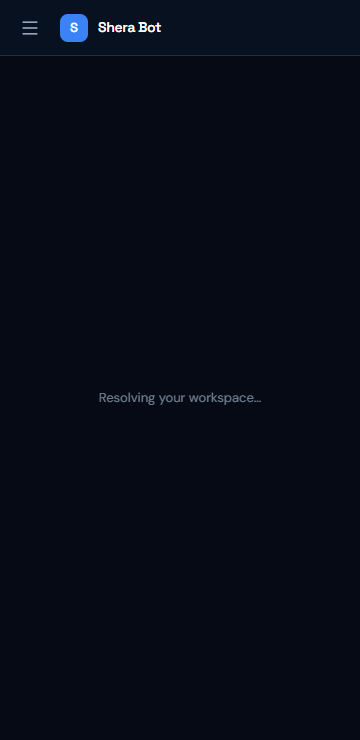
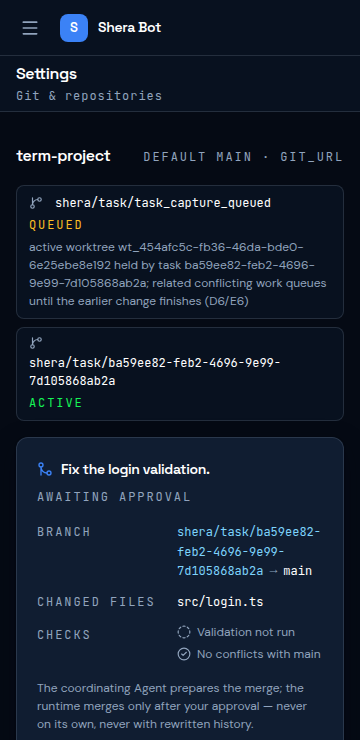
fix(s19): UI-gate evidence re-derived — the committed captures never showed the surface
The review round's taste re-derivation found the chunk-2 UI-gate evidence
defective: the harness's next dev hydration never completed inside the
capture window on ANY device, so every committed PNG showed the
pre-hydration container gate ('Resolving your workspace…'), never the
merge-review surface it attests to. Root-caused two defects and fixed the
committed harness:

1. The control-plane stub answered runtime_handle 'rt_capture', which
   fails the contracts OpaqueRuntimeHandle shape (rt_ + 32 hex) — the
   browser-side RuntimeStatus parse typed-failed even where hydration
   landed. The stub now answers a contract-shaped handle.
2. Dev-mode hydration is not capture-reliable for this app: the harness
   now defaults to the PRODUCTION web server (next start over next
   build); S19_WEB_MODE=dev opts back into next dev for debugging.
3. The chromium executablePath is platform-aware (Windows chrome-win64,
   Linux ~/.cache chrome-linux64, S19_CHROMIUM override), and the
   missing run-cards 768 capture was added.

Re-produced evidence (9 captures, from the committed harness on the Linux
gate box): git-review at 1440/768/360 + reduced-motion + keyboard trail
(the trail REACHES the approve control), run cards at 1440/768/360 — each
showing the real rendered surface: the five PRD §10 fields verbatim, the
D6/E6 queue with its visible reason, and the git-aware run-card join.
E32 and TRACEABILITY updated with the corrected evidence story.

diff --git a/docs/decisions/engineering-record-e32-s19-git-worktrees-2026-10-29.md b/docs/decisions/engineering-record-e32-s19-git-worktrees-2026-10-29.md
@@ -39,7 +39,7 @@
 
 ## Ownership and verification
 
-Implementation owner: delegated coding agents (chunk 1 report on record; chunk 2 verified by the orchestrator after its builder's quota death, narrative re-derived at review); review/release owner: maintainer; **P9 owner diff-read before merge** (sensitive-slice instruction). Verification coverage: `projects-repository` (9: STRICT enums, E12 scoping, one ACTIVE credential per kind, one ACTIVE worktree per project, queue rows with reasons, minimal-PRD merge fields + by-approval resolution, the committed v14+v15 chain pin), `git.service` (import/clone atomicity incl. credential-bearing URL refusal; branch+worktree isolation with the default branch untouched; queue-not-concurrent; restricted-project 403; merge prepare/approve/reject/request-changes on real git; the no-approval merge refusal; vault round-trip/tamper/mask/sanitize/call-time-injection/revoked-fails-safely + the at-rest byte-scan; the static no-force-push scan), `s19-projects-api` (12 routes: import, list, detail, worktree allocate/release/list, credential store/list/revoke, merge-request prepare/list/get/decision/validation — the three-choice relay, agent 403, main untouched on reject/request-changes, approve merges through S20), `git.credential-clone` (clone/fetch end to end through `buildAuthenticatedUrl` over a loopback origin; no-credential failure registering nothing; non-https credential refusal; revoked-credential typed refusal before any git call), `validation-runner` (detection heuristic, real in-worktree execution, first-failure stop, timeout, redacted condensed output, guard rails), `archive-import` (zip/tar happy paths incl. common-root flattening and pax/longname; the traversal/unsafe-entry guards writing nothing; symlink/hardlink refusal; encrypted/data-descriptor/unsupported shapes; per-entry, declared-size, total, count, archive-file caps; the mid-stream gzip cap; atomicity through the git service), `runtime-access` contracts (allowlist grew by exactly the S19 reads + decision/validation POSTs; no browser write path for import/credential/allocation), `projects-ui` (the five-field review verbatim, immutable decided states, session-gated decisions, no credential material, git-aware run cards + queue reason). Finisher re-verification on the Linux gate box: 115/115 across the nine S19-touched suites, user-runtime + web typechecks green, repo-wide lint + `format:check` green; full solo fresh-archive gate counts in the PR evidence pack. UI gate: committed captures under `apps/web/.impeccable/review/s19/` (git-review at 1440/768/360, keyboard-focus trail, reduced-motion; run cards at 1440/360) reproducible via `apps/user-runtime/scripts/capture-s19.mjs` (committed harness; real `next dev` + real runtime + real git seed — it rewrites `apps/web/next-env.d.ts` to its dev variant as a known local side effect).
+Implementation owner: delegated coding agents (chunk 1 report on record; chunk 2 verified by the orchestrator after its builder's quota death, narrative re-derived at review); review/release owner: maintainer; **P9 owner diff-read before merge** (sensitive-slice instruction). Verification coverage: `projects-repository` (9: STRICT enums, E12 scoping, one ACTIVE credential per kind, one ACTIVE worktree per project, queue rows with reasons, minimal-PRD merge fields + by-approval resolution, the committed v14+v15 chain pin), `git.service` (import/clone atomicity incl. credential-bearing URL refusal; branch+worktree isolation with the default branch untouched; queue-not-concurrent; restricted-project 403; merge prepare/approve/reject/request-changes on real git; the no-approval merge refusal; vault round-trip/tamper/mask/sanitize/call-time-injection/revoked-fails-safely + the at-rest byte-scan; the static no-force-push scan), `s19-projects-api` (12 routes: import, list, detail, worktree allocate/release/list, credential store/list/revoke, merge-request prepare/list/get/decision/validation — the three-choice relay, agent 403, main untouched on reject/request-changes, approve merges through S20), `git.credential-clone` (clone/fetch end to end through `buildAuthenticatedUrl` over a loopback origin; no-credential failure registering nothing; non-https credential refusal; revoked-credential typed refusal before any git call), `validation-runner` (detection heuristic, real in-worktree execution, first-failure stop, timeout, redacted condensed output, guard rails), `archive-import` (zip/tar happy paths incl. common-root flattening and pax/longname; the traversal/unsafe-entry guards writing nothing; symlink/hardlink refusal; encrypted/data-descriptor/unsupported shapes; per-entry, declared-size, total, count, archive-file caps; the mid-stream gzip cap; atomicity through the git service), `runtime-access` contracts (allowlist grew by exactly the S19 reads + decision/validation POSTs; no browser write path for import/credential/allocation), `projects-ui` (the five-field review verbatim, immutable decided states, session-gated decisions, no credential material, git-aware run cards + queue reason). Finisher re-verification on the Linux gate box: 115/115 across the nine S19-touched suites, user-runtime + web typechecks green, repo-wide lint + `format:check` green; full solo fresh-archive gate counts in the PR evidence pack. UI gate: the finisher's review RE-DERIVED the chunk-2 captures and found the committed set broken — the harness's `next dev` hydration never completed inside the capture window on any device, so every committed PNG showed the pre-hydration container gate, never the surfaces it attests to; the same round found the harness's control-plane stub answering a `runtime_handle` ("rt_capture") that fails the contracts `OpaqueRuntimeHandle` shape (`rt_` + 32 hex), so the browser-side contract parse typed-failed even where hydration landed. The review-round fixes (platform-aware chromium path, the stub's contract-shaped handle, the `run-cards-git-768` capture, and the production web server as the harness default) make the committed harness reproduce VALID evidence: nine captures under `apps/web/.impeccable/review/s19/` — git-review at 1440/768/360 and run cards at 1440/768/360, a keyboard-only trail that REACHES the approve control, and a reduced-motion capture — each showing the real rendered surface (the five PRD §10 fields verbatim, the queue with its reason, the git-aware run cards).
 
 ## NOT verified (standing)
 
@@ -47,6 +47,6 @@ Implementation owner: delegated coding agents (chunk 1 report on record; chunk 2
 - **`ssh_key` credentials are stored but not yet consumable:** the vault seam consumes token credentials over https only; ssh transport (and its key custody) is future work — the stored rows are inert, revocable custody.
 - **The per-project-exclusive conflict queue** is the conservative D6 reading; widening (path-level leases across worktrees) is an integration decision, recorded not silent.
 - **`checkExecutionAllowed` still has no production caller (P0 for S21):** S19's merge execution consumes the S20 DECIDE path in production (the withheld execute callback runs the approved merge), but the grant-skip gate itself remains unwired — its one-time-approval guard re-reads the approval status instead. Wiring the gate into the real execute path is P0 before S21 gives callbacks real effects.
-- **Capture-harness gaps:** run cards were captured at 1440 and 360 (768 omitted); `prefers-reduced-motion` is covered by the committed reduced-motion capture of the git-review surface and the global reduce block, not a second run-cards capture.
+- **Capture-harness posture:** the committed captures were re-produced by the finisher on the Linux gate box through the fixed harness (production web server); the adversarial TASTE-PASS findings list from the original chunk-2 builder is NOT on record (the builder died at quota) — the taste re-derivation found one P1-class evidence defect (the broken captures, fixed as above) and no further visual defects in the re-produced set, but the owner's own taste read remains part of the P9 diff-read.
 - **Real Google OAuth behind the session, Docker, real providers, live WS fanout for project reads (HTTP polls on the app's 5s visible-tab cadence):** standing from E22–E30.
 - **The v14/v15 renumber play:** S19 carries BOTH migrations as built; whichever sibling slice merges second renumbers (orchestrator-owned at integration).
